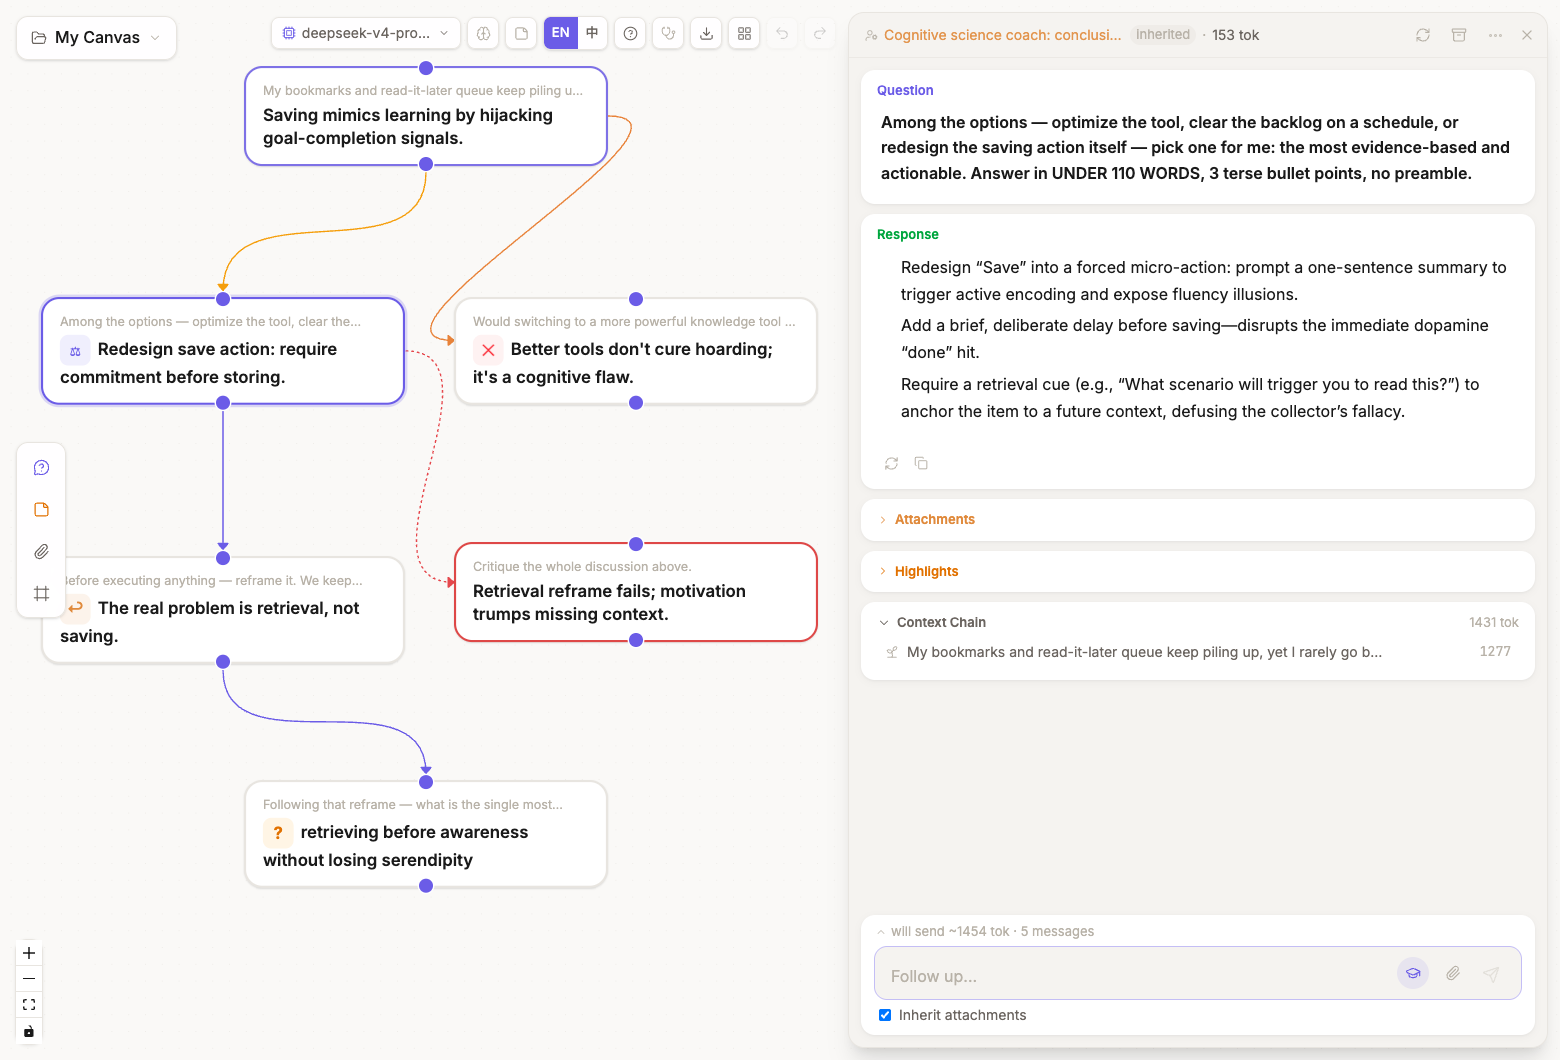
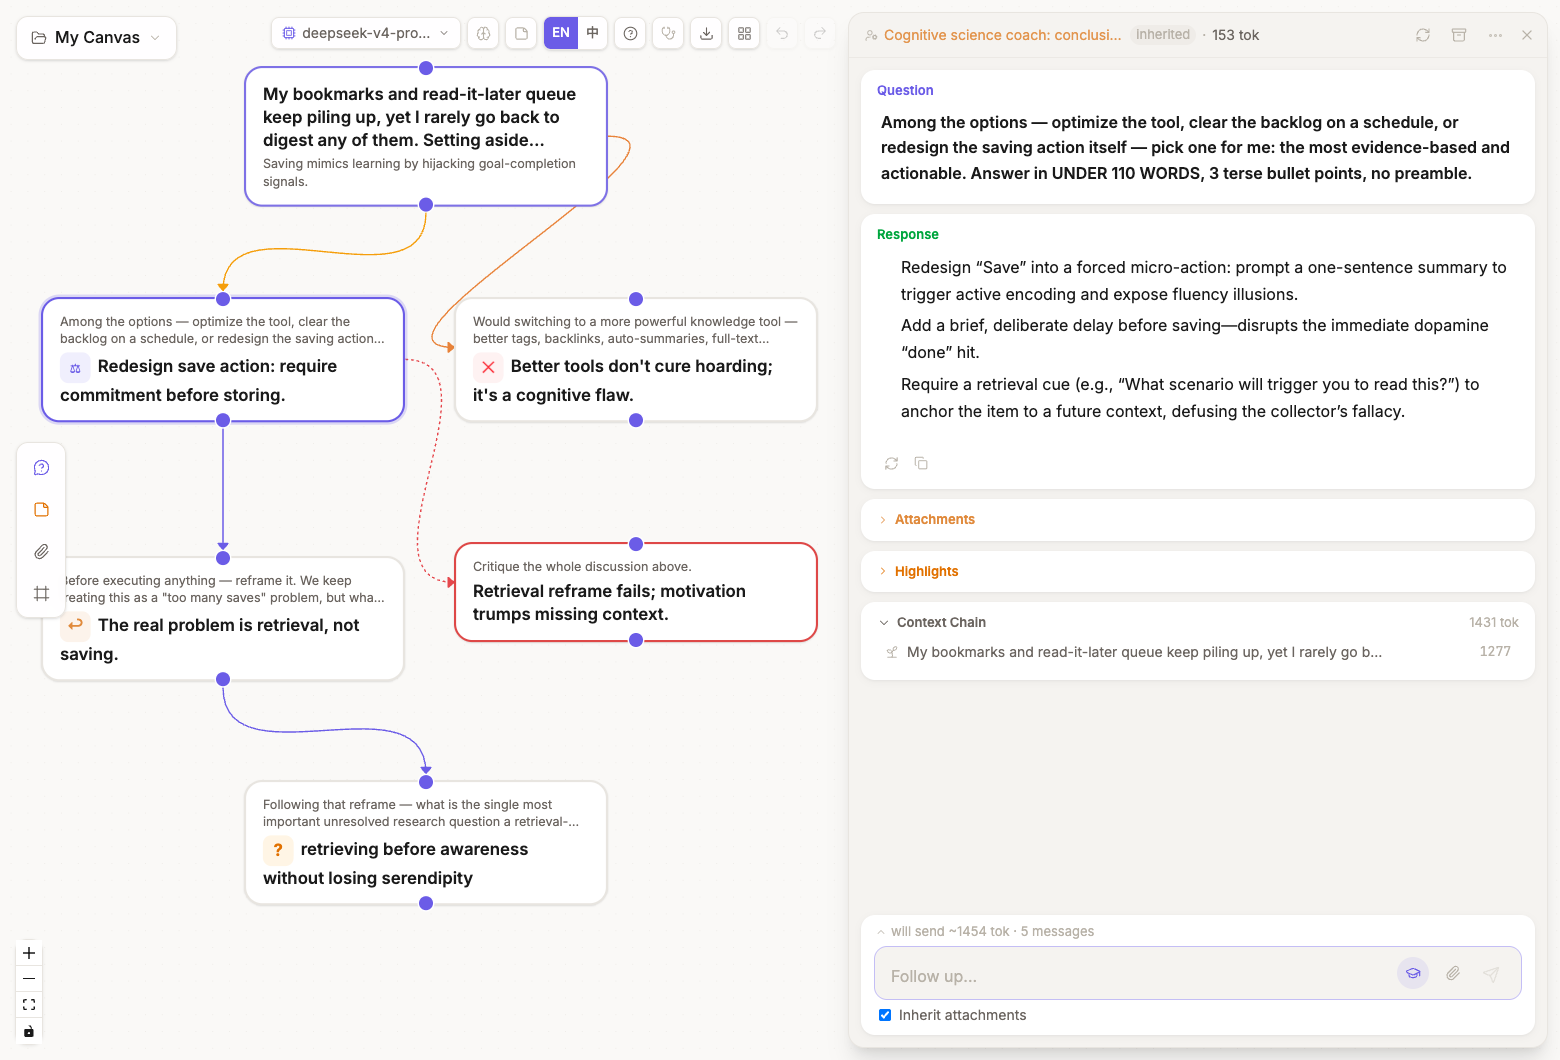
Map plaques: readable questions, and the root question is the map's title
Two reader-facing fixes to the zoomed-out map, from field feedback:

- Every plaque's question eyebrow was ink-faint and clamped to one line
  — unreadable against the wash, and usually cut mid-sentence. Now
  ink-muted and two lines: a first-time reader can reconstruct the
  question-answer structure instead of seeing bare takeaway fragments.
- The root plaque inverts the hierarchy: its opening question IS the
  map's title (large, ink), with the takeaway as a muted subtitle. A
  map of thought now has an entry point — readers see what the whole
  canvas is answering before they read any takeaway.

Heroes retaken with the new plaques.

diff --git a/src/components/ThoughtNode.tsx b/src/components/ThoughtNode.tsx
@@ -262,23 +262,42 @@ export default function ThoughtNode({ id, data }: NodeProps<ThoughtNodeType>) {
       )}
       {zoomedOut ? (
         // Map label: the TAKEAWAY is the headline (what this step yielded),
-        // the question a quiet eyebrow — the zoomed-out canvas reads like a
-        // lab notebook's table of contents, not a pile of shrunken documents
+        // the question a readable eyebrow — the zoomed-out canvas reads like
+        // a lab notebook's table of contents, not a pile of shrunken
+        // documents. EXCEPT the root: its opening question IS the map's
+        // title — the reader's entry point — so there question leads and
+        // the takeaway is the subtitle.
         <div className="drag-handle cursor-grab active:cursor-grabbing px-6 py-5">
           {(versionSummary || data.response) ? (
-            <>
-              <div className="text-lg text-ink-faint leading-snug line-clamp-1">
-                {data.question}
-              </div>
-              <div className="text-2xl font-semibold text-ink leading-snug line-clamp-3 mt-1.5">
-                {badge && (
-                  <span title={t(badge.key as Parameters<typeof t>[0])} className={`inline-flex items-center justify-center w-11 h-11 rounded-xl text-2xl font-bold mr-2.5 align-middle ${badge.cls}`}>
-                    {badge.glyph}
-                  </span>
-                )}
-                {versionSummary || data.response.replace(/[#*`>-]/g, '').slice(0, 140)}
-              </div>
-            </>
+            isRoot ? (
+              <>
+                <div className="text-2xl font-semibold text-ink leading-snug line-clamp-3">
+                  {data.question}
+                </div>
+                <div className="text-lg text-ink-muted leading-snug line-clamp-2 mt-1.5">
+                  {badge && (
+                    <span title={t(badge.key as Parameters<typeof t>[0])} className={`inline-flex items-center justify-center w-8 h-8 rounded-lg text-lg font-bold mr-2 align-middle ${badge.cls}`}>
+                      {badge.glyph}
+                    </span>
+                  )}
+                  {versionSummary || data.response.replace(/[#*`>-]/g, '').slice(0, 140)}
+                </div>
+              </>
+            ) : (
+              <>
+                <div className="text-lg text-ink-muted leading-snug line-clamp-2">
+                  {data.question}
+                </div>
+                <div className="text-2xl font-semibold text-ink leading-snug line-clamp-3 mt-1.5">
+                  {badge && (
+                    <span title={t(badge.key as Parameters<typeof t>[0])} className={`inline-flex items-center justify-center w-11 h-11 rounded-xl text-2xl font-bold mr-2.5 align-middle ${badge.cls}`}>
+                      {badge.glyph}
+                    </span>
+                  )}
+                  {versionSummary || data.response.replace(/[#*`>-]/g, '').slice(0, 140)}
+                </div>
+              </>
+            )
           ) : (
             <div className="text-2xl font-semibold text-ink leading-snug line-clamp-3">
               {data.question}
